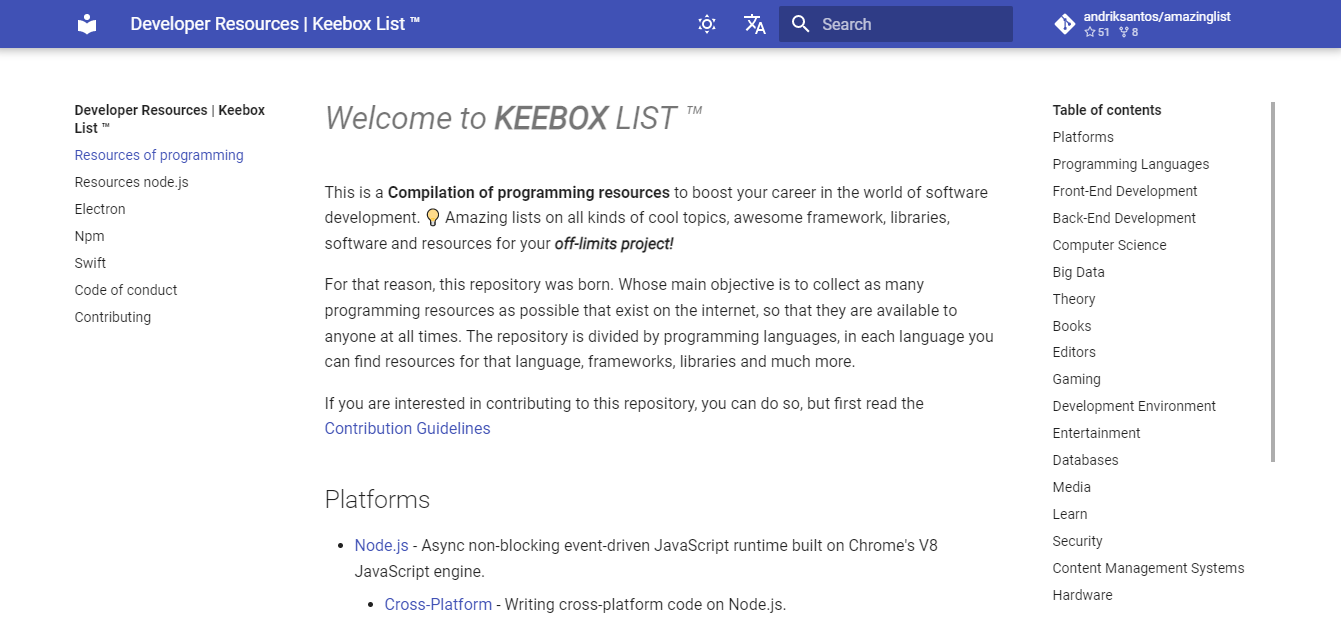
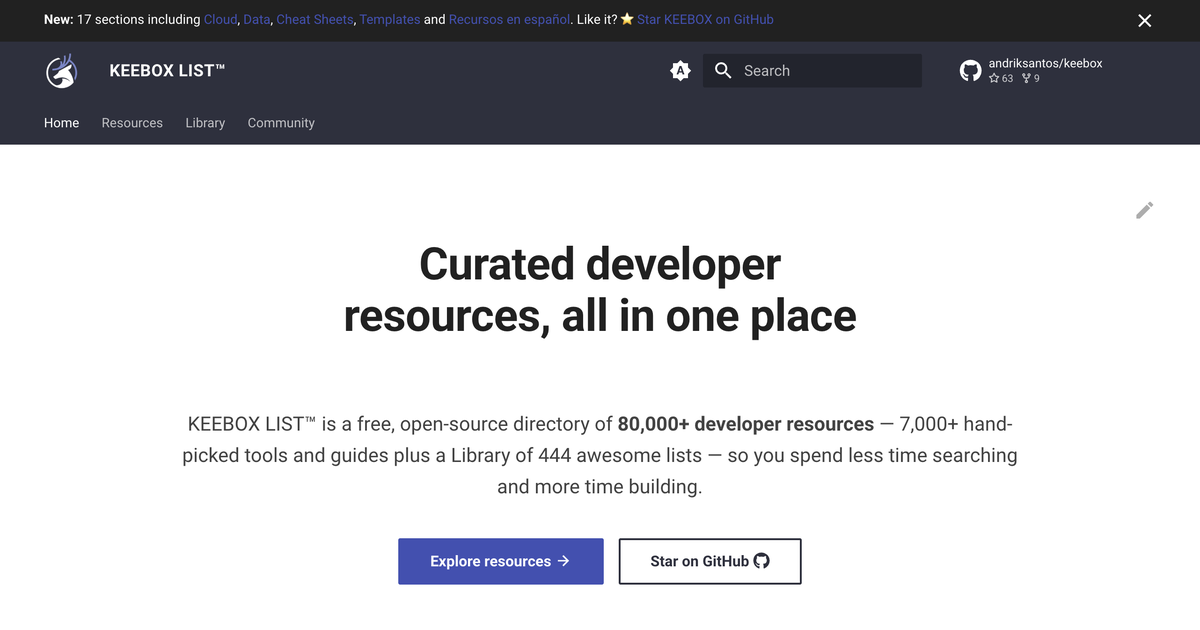
remplace el thumb

diff --git a/overrides/main.html b/overrides/main.html
@@ -33,8 +33,8 @@
   <meta property="og:description" content="{{ seo_desc }}">
   <meta property="og:url" content="{{ page.canonical_url }}">
   <meta property="og:image" content="{{ seo_image }}">
-  <meta property="og:image:width" content="1341">
-  <meta property="og:image:height" content="632">
+  <meta property="og:image:width" content="1200">
+  <meta property="og:image:height" content="630">
   <meta property="og:image:alt" content="KEEBOX LIST™ – curated developer resources">
   <!-- Twitter / X -->
   <meta name="twitter:card" content="summary_large_image">
